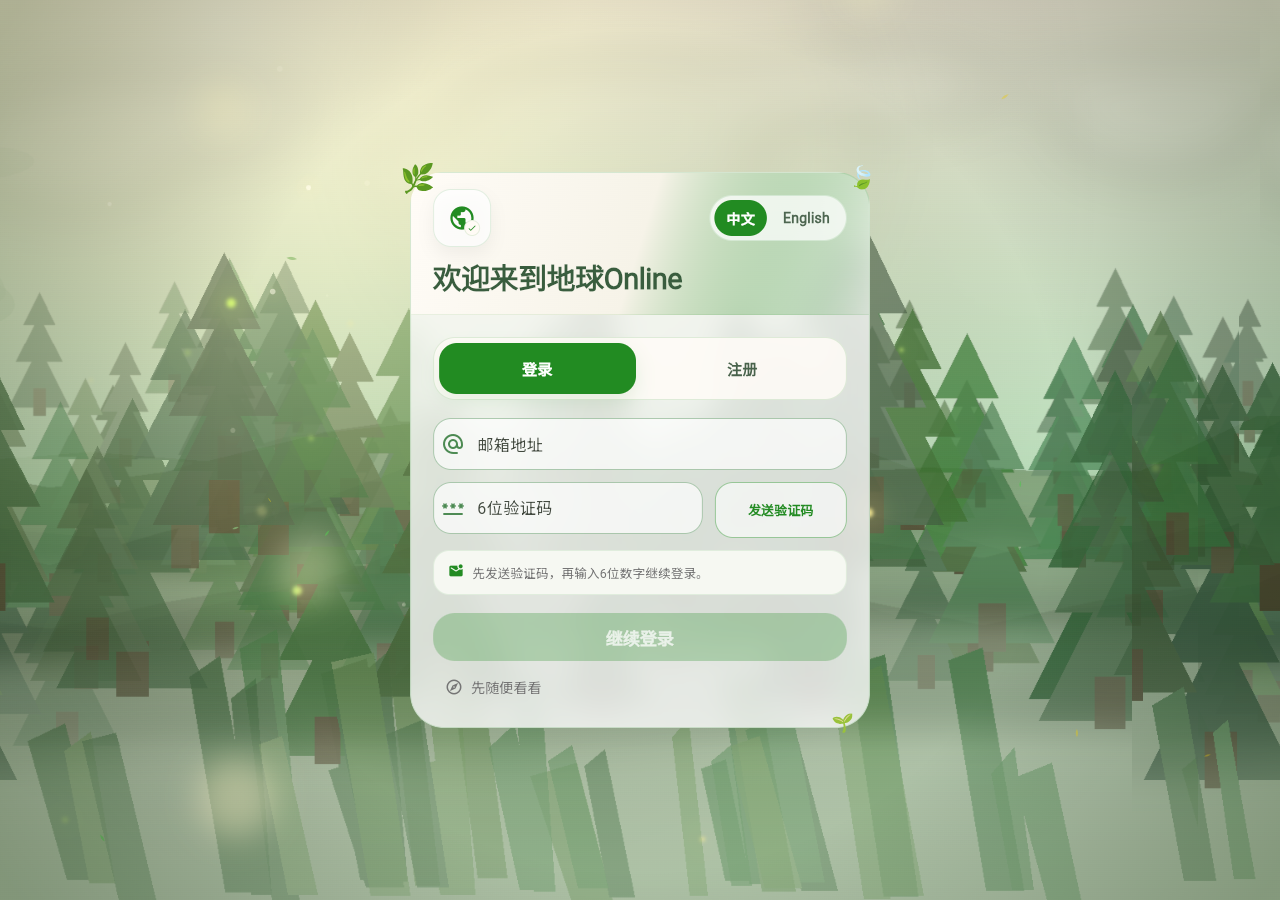
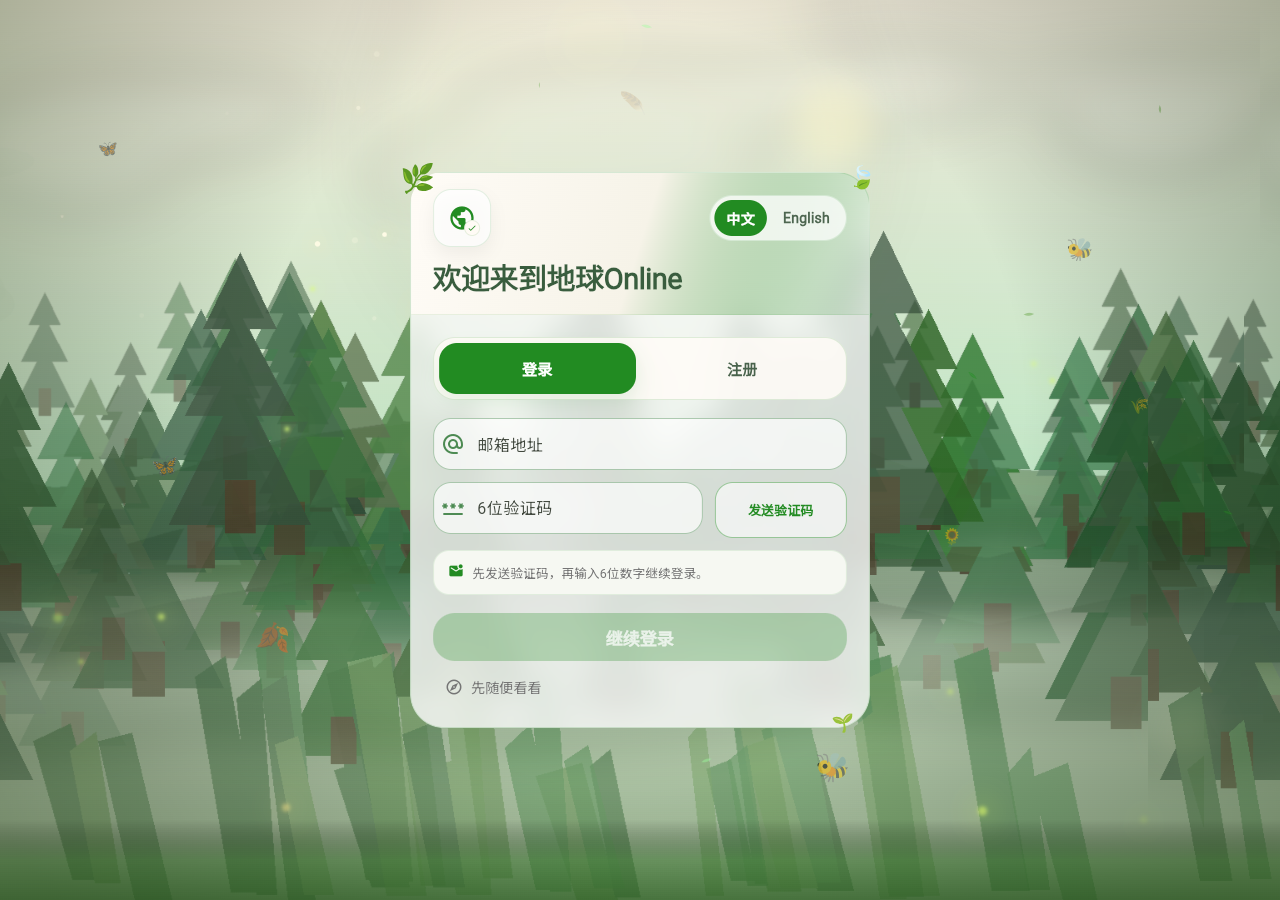
feat: 登录页视觉对齐 HTML 预览 — 浓密森林/浮动图标/强阳光
- 天空渐变增加 7 色阶，底部更深绿(#2A5428)
- 阳光系统：核心光晕(alpha 0.85) + 扩散光晕，更接近预览
- 视差层透明度 0.78 → 0.92，森林更密实
- 新增前景草丛渐变（底部 80px 深绿兜底）
- 雾气层扩展到 400px，增加中间色阶
- 新增 9 个浮动环境图标（🦋🐝🍂🌻🪶✨🌾）
- 暗角中心偏上，聚焦登录卡片区域

diff --git a/frontend/lib/features/auth/screens/login_screen.dart b/frontend/lib/features/auth/screens/login_screen.dart
@@ -1,4 +1,5 @@
 import 'dart:async';
+import 'dart:math' as math;
 import 'dart:ui';
 
 import 'package:flutter/material.dart';
@@ -217,6 +218,36 @@ class _LoginScreenState extends State<LoginScreen>
     }
   }
 
+  /// 浮动环境图标（蝴蝶、蜜蜂、落叶等），匹配 HTML 预览
+  List<Widget> _buildAmbientIcons() {
+    const icons = ['🦋', '🐝', '🍂', '🌻', '🪶', '✨', '🌾', '🦋', '🐝'];
+    const positions = <List<double>>[
+      [0.08, 0.15], [0.85, 0.25], [0.20, 0.70], [0.75, 0.60],
+      [0.50, 0.12], [0.35, 0.80], [0.90, 0.45], [0.12, 0.50], [0.65, 0.85],
+    ];
+    return List.generate(icons.length, (i) {
+      return Positioned(
+        left: 0,
+        top: 0,
+        right: 0,
+        bottom: 0,
+        child: IgnorePointer(
+          child: Align(
+            alignment: Alignment(
+              positions[i][0] * 2 - 1,
+              positions[i][1] * 2 - 1,
+            ),
+            child: _FloatingIcon(
+              icon: icons[i],
+              size: 16.0 + (i % 3) * 6,
+              delay: Duration(milliseconds: i * 1300),
+            ),
+          ),
+        ),
+      );
+    });
+  }
+
   @override
   Widget build(BuildContext context) {
     final questTheme = Theme.of(context).extension<QuestTheme>() ??
@@ -226,7 +257,7 @@ class _LoginScreenState extends State<LoginScreen>
     return Scaffold(
       body: Stack(
         children: [
-          // 森林视差背景
+          // ═══ 1. 天空渐变（更暖、底部更深绿）═══
           Positioned.fill(
             child: Container(
               decoration: const BoxDecoration(
@@ -235,19 +266,60 @@ class _LoginScreenState extends State<LoginScreen>
                   end: Alignment.bottomCenter,
                   colors: [
                     Color(0xFFF0EACC),
+                    Color(0xFFE2DDB5),
                     Color(0xFFC4D8A0),
                     Color(0xFF8ABF6E),
+                    Color(0xFF5A9E4A),
                     Color(0xFF3D7A3A),
+                    Color(0xFF2A5428),
                   ],
-                  stops: [0.0, 0.3, 0.6, 1.0],
+                  stops: [0.0, 0.12, 0.28, 0.48, 0.65, 0.80, 1.0],
                 ),
               ),
             ),
           ),
-          // 静态底图
+          // ═══ 2. 阳光核心（左上大面积白金色）═══
+          Positioned.fill(
+            child: IgnorePointer(
+              child: DecoratedBox(
+                decoration: BoxDecoration(
+                  gradient: RadialGradient(
+                    center: const Alignment(-0.7, -0.95),
+                    radius: 0.9,
+                    colors: [
+                      const Color(0xFFFFFCE0).withValues(alpha: 0.85),
+                      const Color(0xFFFFF5C0).withValues(alpha: 0.35),
+                      Colors.transparent,
+                    ],
+                    stops: const [0.0, 0.25, 0.65],
+                  ),
+                ),
+              ),
+            ),
+          ),
+          // ═══ 3. 阳光光晕扩散 ═══
+          Positioned.fill(
+            child: IgnorePointer(
+              child: DecoratedBox(
+                decoration: BoxDecoration(
+                  gradient: RadialGradient(
+                    center: const Alignment(-0.5, -0.7),
+                    radius: 1.2,
+                    colors: [
+                      const Color(0xFFFFF8D0).withValues(alpha: 0.35),
+                      const Color(0xFFFFEFA0).withValues(alpha: 0.1),
+                      Colors.transparent,
+                    ],
+                    stops: const [0.0, 0.35, 0.8],
+                  ),
+                ),
+              ),
+            ),
+          ),
+          // ═══ 4. 静态底图 ═══
           Positioned.fill(
             child: Opacity(
-              opacity: 0.5,
+              opacity: 0.55,
               child: Image.asset(
                 'assets/images/backgrounds/forest/login_backdrop.png',
                 fit: BoxFit.cover,
@@ -255,10 +327,10 @@ class _LoginScreenState extends State<LoginScreen>
               ),
             ),
           ),
-          // 视差滚动层
+          // ═══ 5. 视差滚动森林（更不透明）═══
           Positioned.fill(
             child: Opacity(
-              opacity: 0.78,
+              opacity: 0.92,
               child: ParallaxBackground(
                 scrollSpeed: 18,
                 layers: const [
@@ -268,63 +340,43 @@ class _LoginScreenState extends State<LoginScreen>
                   ),
                   ParallaxLayer(
                     assetPath: 'assets/images/backgrounds/forest/far.png',
-                    speed: 0.16,
+                    speed: 0.14,
                   ),
                   ParallaxLayer(
                     assetPath: 'assets/images/backgrounds/forest/mid.png',
-                    speed: 0.32,
+                    speed: 0.30,
                   ),
                   ParallaxLayer(
                     assetPath: 'assets/images/backgrounds/forest/near.png',
-                    speed: 0.58,
+                    speed: 0.52,
                   ),
                 ],
               ),
             ),
           ),
-          // 阳光主光晕（大面积暖光）
+          // ═══ 6. 暖光洗（整体偏暖）═══
           Positioned.fill(
             child: IgnorePointer(
               child: DecoratedBox(
                 decoration: BoxDecoration(
-                  gradient: RadialGradient(
-                    center: const Alignment(-0.65, -0.95),
-                    radius: 1.3,
+                  gradient: LinearGradient(
+                    begin: const Alignment(-0.8, -1.0),
+                    end: const Alignment(0.6, 0.4),
                     colors: [
-                      const Color(0xFFFFFCE0).withValues(alpha: 0.55),
-                      const Color(0xFFFFF0B0).withValues(alpha: 0.2),
+                      const Color(0xFFFFF8D0).withValues(alpha: 0.12),
                       Colors.transparent,
                     ],
-                    stops: const [0.0, 0.3, 1.0],
                   ),
                 ),
               ),
             ),
           ),
-          // 阳光副光晕（偏移暖色扩散）
-          Positioned.fill(
-            child: IgnorePointer(
-              child: DecoratedBox(
-                decoration: BoxDecoration(
-                  gradient: RadialGradient(
-                    center: const Alignment(-0.4, -0.6),
-                    radius: 0.8,
-                    colors: [
-                      const Color(0xFFFFF8C8).withValues(alpha: 0.2),
-                      Colors.transparent,
-                    ],
-                    stops: const [0.0, 1.0],
-                  ),
-                ),
-              ),
-            ),
-          ),
-          // 雾气层（底部偏上）
+          // ═══ 7. 雾气层（中部扩散）═══
           Positioned(
             bottom: 0,
             left: 0,
             right: 0,
-            height: 300,
+            height: 400,
             child: IgnorePointer(
               child: DecoratedBox(
                 decoration: BoxDecoration(
@@ -334,30 +386,56 @@ class _LoginScreenState extends State<LoginScreen>
                     colors: [
                       Colors.transparent,
                       const Color(0xFFDDEBD2).withValues(alpha: 0.2),
-                      const Color(0xFFCCE0C0).withValues(alpha: 0.35),
+                      const Color(0xFFBBD8AA).withValues(alpha: 0.3),
+                      const Color(0xFF88B870).withValues(alpha: 0.25),
+                    ],
+                    stops: const [0.0, 0.3, 0.6, 1.0],
+                  ),
+                ),
+              ),
+            ),
+          ),
+          // ═══ 8. 前景草丛渐变（底部深绿兜底）═══
+          Positioned(
+            bottom: 0,
+            left: 0,
+            right: 0,
+            height: 80,
+            child: IgnorePointer(
+              child: DecoratedBox(
+                decoration: BoxDecoration(
+                  gradient: LinearGradient(
+                    begin: Alignment.topCenter,
+                    end: Alignment.bottomCenter,
+                    colors: [
+                      Colors.transparent,
+                      const Color(0xFF3A7A2E).withValues(alpha: 0.5),
+                      const Color(0xFF2D6622).withValues(alpha: 0.7),
                     ],
                   ),
                 ),
               ),
             ),
           ),
-          // 粒子系统（树叶 + 萤火虫 + 阳光浮尘 + 光斑）
+          // ═══ 9. 粒子系统 ═══
           const Positioned.fill(
             child: ForestParticles(),
           ),
-          // 暗角
+          // ═══ 10. 浮动环境图标（蝴蝶/蜜蜂等）═══
+          ..._buildAmbientIcons(),
+          // ═══ 11. 暗角 ═══
           Positioned.fill(
             child: IgnorePointer(
               child: DecoratedBox(
                 decoration: BoxDecoration(
                   gradient: RadialGradient(
-                    center: Alignment.center,
+                    center: const Alignment(0.0, -0.1),
                     radius: 0.85,
                     colors: [
                       Colors.transparent,
-                      const Color(0xFF1E3214).withValues(alpha: 0.3),
+                      const Color(0xFF1E3214).withValues(alpha: 0.35),
                     ],
-                    stops: const [0.55, 1.0],
+                    stops: const [0.5, 1.0],
                   ),
                 ),
               ),
@@ -1075,6 +1153,70 @@ class _AnimatedPrimaryButton extends StatelessWidget {
         ),
         child: Text(label),
       ),
+    );
+  }
+}
+
+/// 浮动环境图标动画组件
+class _FloatingIcon extends StatefulWidget {
+  final String icon;
+  final double size;
+  final Duration delay;
+
+  const _FloatingIcon({
+    required this.icon,
+    required this.size,
+    this.delay = Duration.zero,
+  });
+
+  @override
+  State<_FloatingIcon> createState() => _FloatingIconState();
+}
+
+class _FloatingIconState extends State<_FloatingIcon>
+    with SingleTickerProviderStateMixin {
+  late AnimationController _ctrl;
+
+  @override
+  void initState() {
+    super.initState();
+    _ctrl = AnimationController(
+      duration: const Duration(seconds: 8),
+      vsync: this,
+    );
+    Future.delayed(widget.delay, () {
+      if (mounted) _ctrl.repeat();
+    });
+  }
+
+  @override
+  void dispose() {
+    _ctrl.dispose();
+    super.dispose();
+  }
+
+  @override
+  Widget build(BuildContext context) {
+    return AnimatedBuilder(
+      animation: _ctrl,
+      builder: (context, child) {
+        final t = _ctrl.value;
+        // 正弦浮动 + 淡入淡出
+        final dy = math.sin(t * math.pi * 2) * 18;
+        final dx = math.cos(t * math.pi * 2 * 0.7) * 8;
+        final opacity = (math.sin(t * math.pi * 2) * 0.5 + 0.5)
+            .clamp(0.15, 0.55);
+        return Transform.translate(
+          offset: Offset(dx, dy),
+          child: Opacity(
+            opacity: opacity,
+            child: Text(
+              widget.icon,
+              style: TextStyle(fontSize: widget.size),
+            ),
+          ),
+        );
+      },
     );
   }
 }
